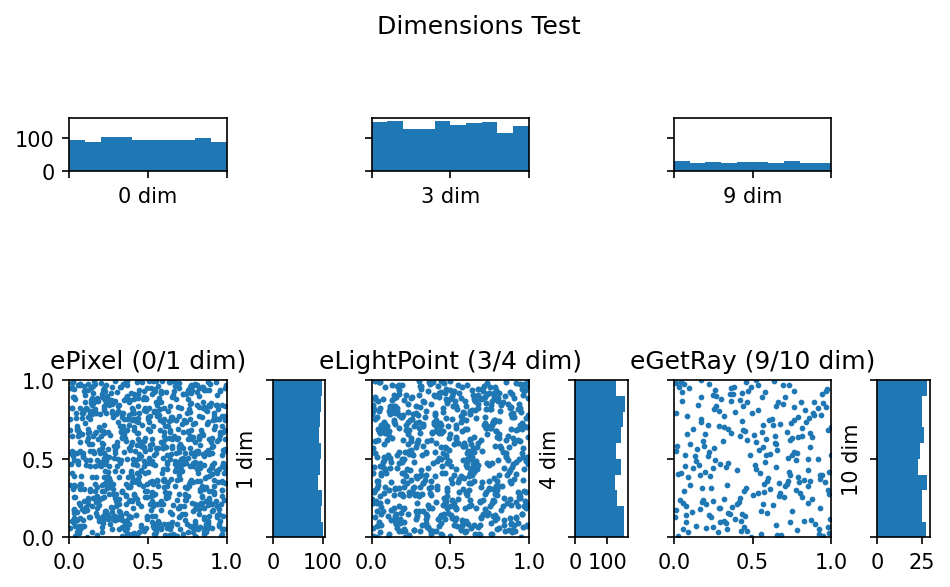
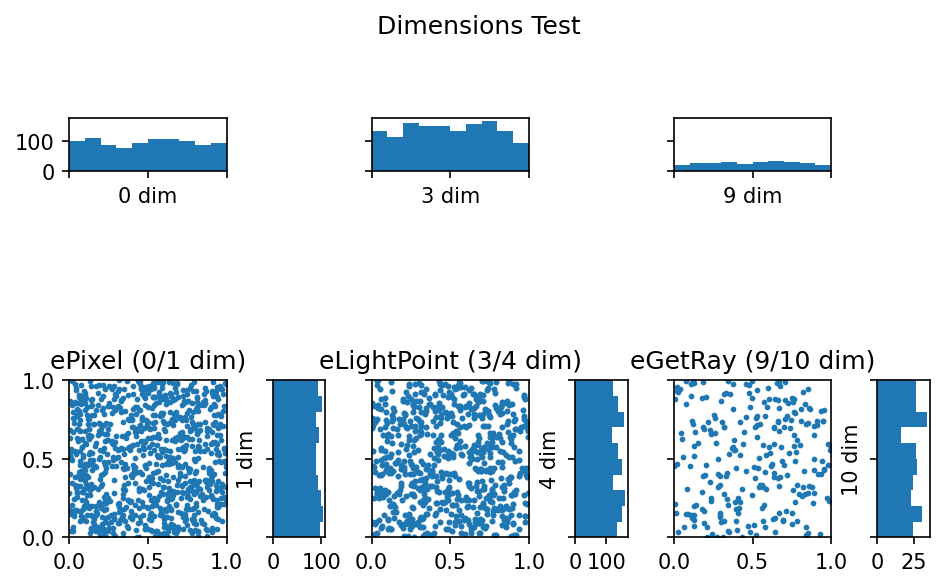
Slightly improve scrambling in Halton generator

diff --git a/MakeScatterForPixel/main.py b/MakeScatterForPixel/main.py
@@ -4,7 +4,7 @@ import matplotlib.pyplot as plt
 name = "Halton"
 max_path = 256
 max_bounce = 8
-scrambling_type = "OwenFinal"
+scrambling_type = "RandomDigits"
 
 config_str = name + "_" + str(max_path) + "_" + str(max_bounce) + "_"
 
@@ -38,12 +38,12 @@ axs[1, 5].set_box_aspect(3 / 1)
 # ePixel scatter + histograms
 coords_x = []
 coords_y = []
-data_x = open("/Users/kaparya/HSE/PathTracing/WorkingProject/DimensionsTest/" + config_str + "ePixelX_0.txt", "r")
+data_x = open("../WorkingProject/DimensionsTest/" + config_str + "ePixelX_0.txt", "r")
 for line in data_x:
     help = line.split()
     coords_x.append(float(help[0]))
 
-data_y = open("/Users/kaparya/HSE/PathTracing/WorkingProject/DimensionsTest/" + config_str + "ePixelY_1.txt", "r")
+data_y = open("../WorkingProject/DimensionsTest/" + config_str + "ePixelY_1.txt", "r")
 for line in data_y:
     help = line.split()
     coords_y.append(float(help[0]))
@@ -64,12 +64,12 @@ axs[1, 1].set_ylabel("1 dim")
 # eLightPoint scatter + histograms
 coords_x.clear()
 coords_y.clear()
-data_x = open("/Users/kaparya/HSE/PathTracing/WorkingProject/DimensionsTest/" + config_str + "eLightPointX_3.txt", "r")
+data_x = open("../WorkingProject/DimensionsTest/" + config_str + "eLightPointX_3.txt", "r")
 for line in data_x:
     help = line.split()
     coords_x.append(float(help[0]))
 
-data_y = open("/Users/kaparya/HSE/PathTracing/WorkingProject/DimensionsTest/" + config_str + "eLightPointY_4.txt", "r")
+data_y = open("../WorkingProject/DimensionsTest/" + config_str + "eLightPointY_4.txt", "r")
 for line in data_y:
     help = line.split()
     coords_y.append(float(help[0]))
@@ -90,12 +90,12 @@ axs[1, 3].set_ylabel("4 dim")
 # eGetRay scatter + histograms
 coords_x.clear()
 coords_y.clear()
-data_x = open("/Users/kaparya/HSE/PathTracing/WorkingProject/DimensionsTest/" + config_str + "eGetRayX_9.txt", "r")
+data_x = open("../WorkingProject/DimensionsTest/" + config_str + "eGetRayX_9.txt", "r")
 for line in data_x:
     help = line.split()
     coords_x.append(float(help[0]))
 
-data_y = open("/Users/kaparya/HSE/PathTracing/WorkingProject/DimensionsTest/" + config_str + "eGetRayY_10.txt", "r")
+data_y = open("../WorkingProject/DimensionsTest/" + config_str + "eGetRayY_10.txt", "r")
 for line in data_y:
     help = line.split()
     coords_y.append(float(help[0]))

diff --git a/WorkingProject/Random/Halton.h b/WorkingProject/Random/Halton.h
@@ -19,8 +19,11 @@ inline float HaltonRand(uint32_t index, const uint32_t base,
     if (scrambling_type == None) {
         return std::min(value * invBaseN, 1 - 1e-10f);
     }
-    value = (value << 8) + value;
-    value = (value << 16) + value;
+    value ^= (value << 4);
+    value *= 0xb1a9;
+    value ^= (value << 8);
+    value *= 0x910ab81d;
+    value ^= (value << 16);
     switch (scrambling_type) {
         case 0:
             value ^= scramble;

diff --git a/WorkingProject/Constants.h b/WorkingProject/Constants.h
@@ -21,7 +21,7 @@ const random_generator random_generator_type = Halton;
 enum scrambling : int {
     RandomDigit, Owen, OwenV1, OwenV2, OwenFinal, None
 };
-const scrambling scrambling_type = OwenFinal;
+const scrambling scrambling_type = RandomDigit;
 
 
 
